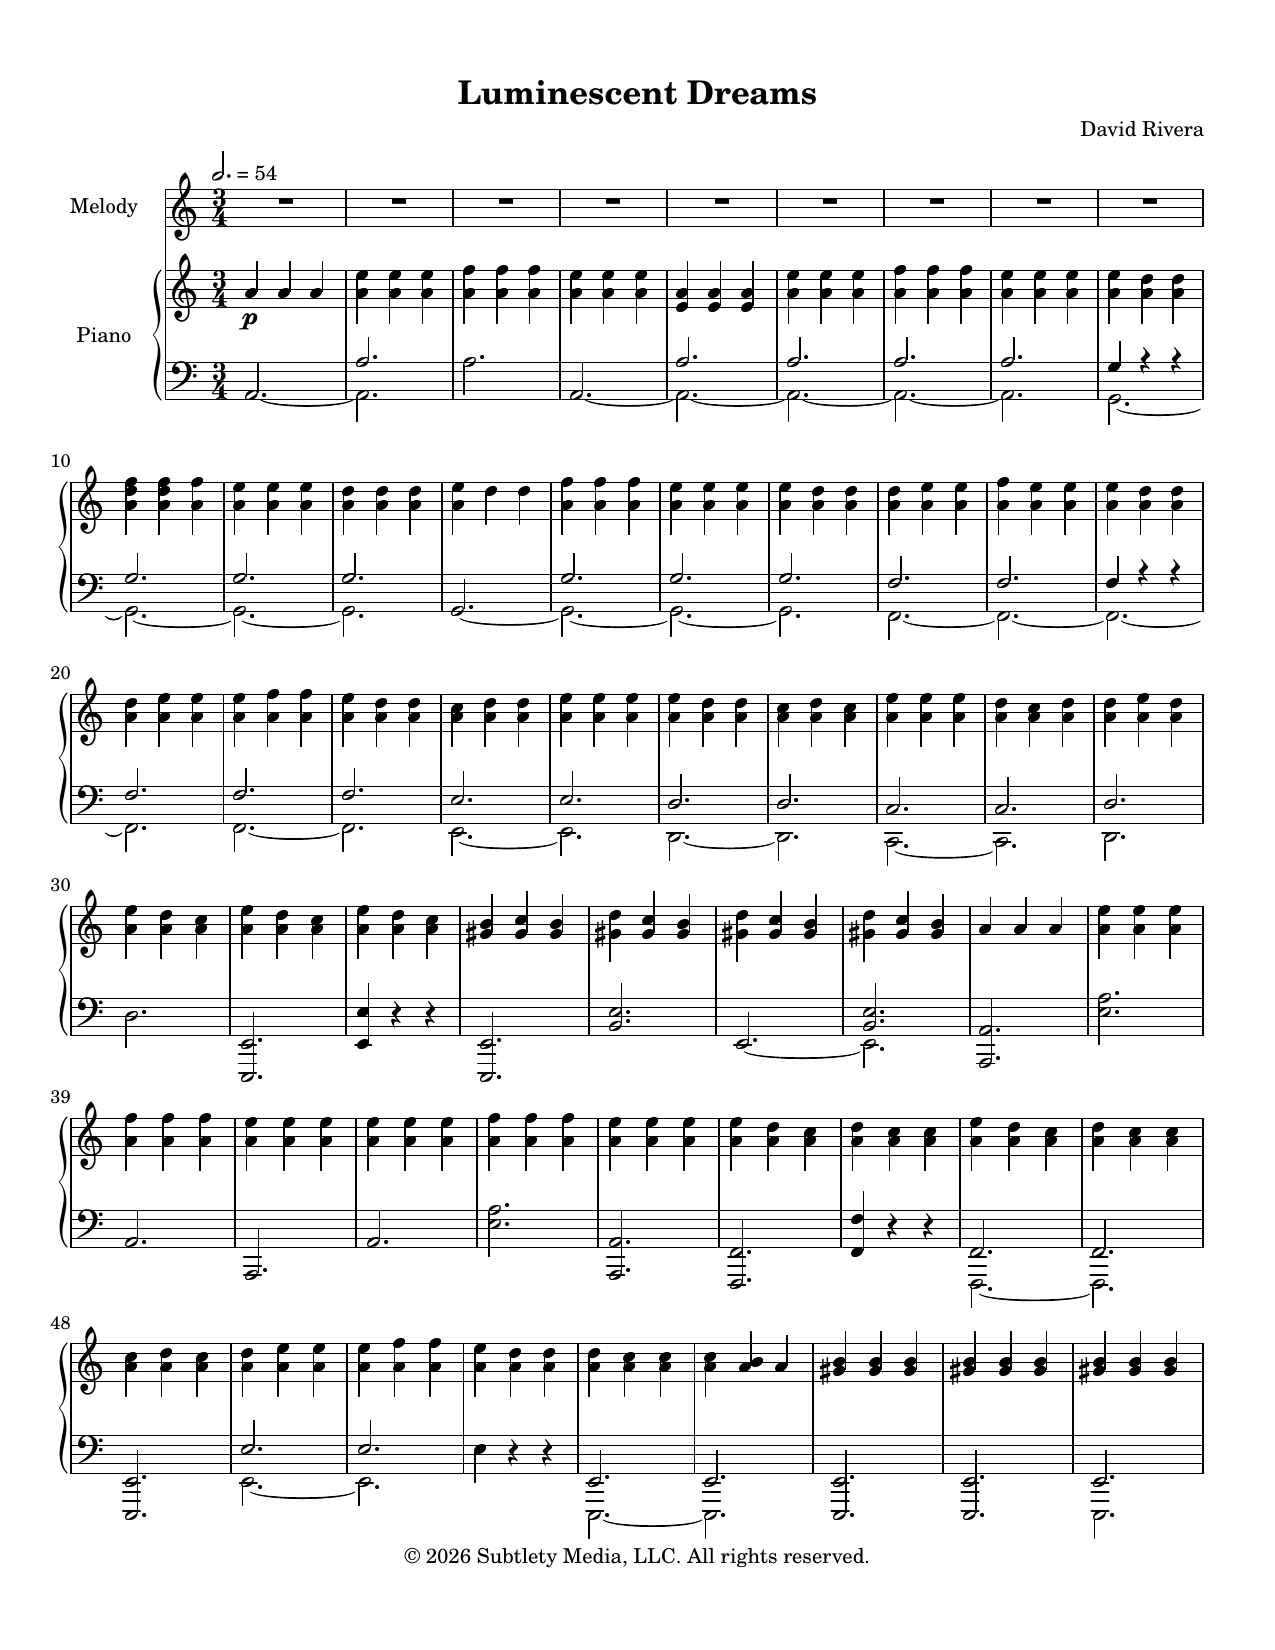
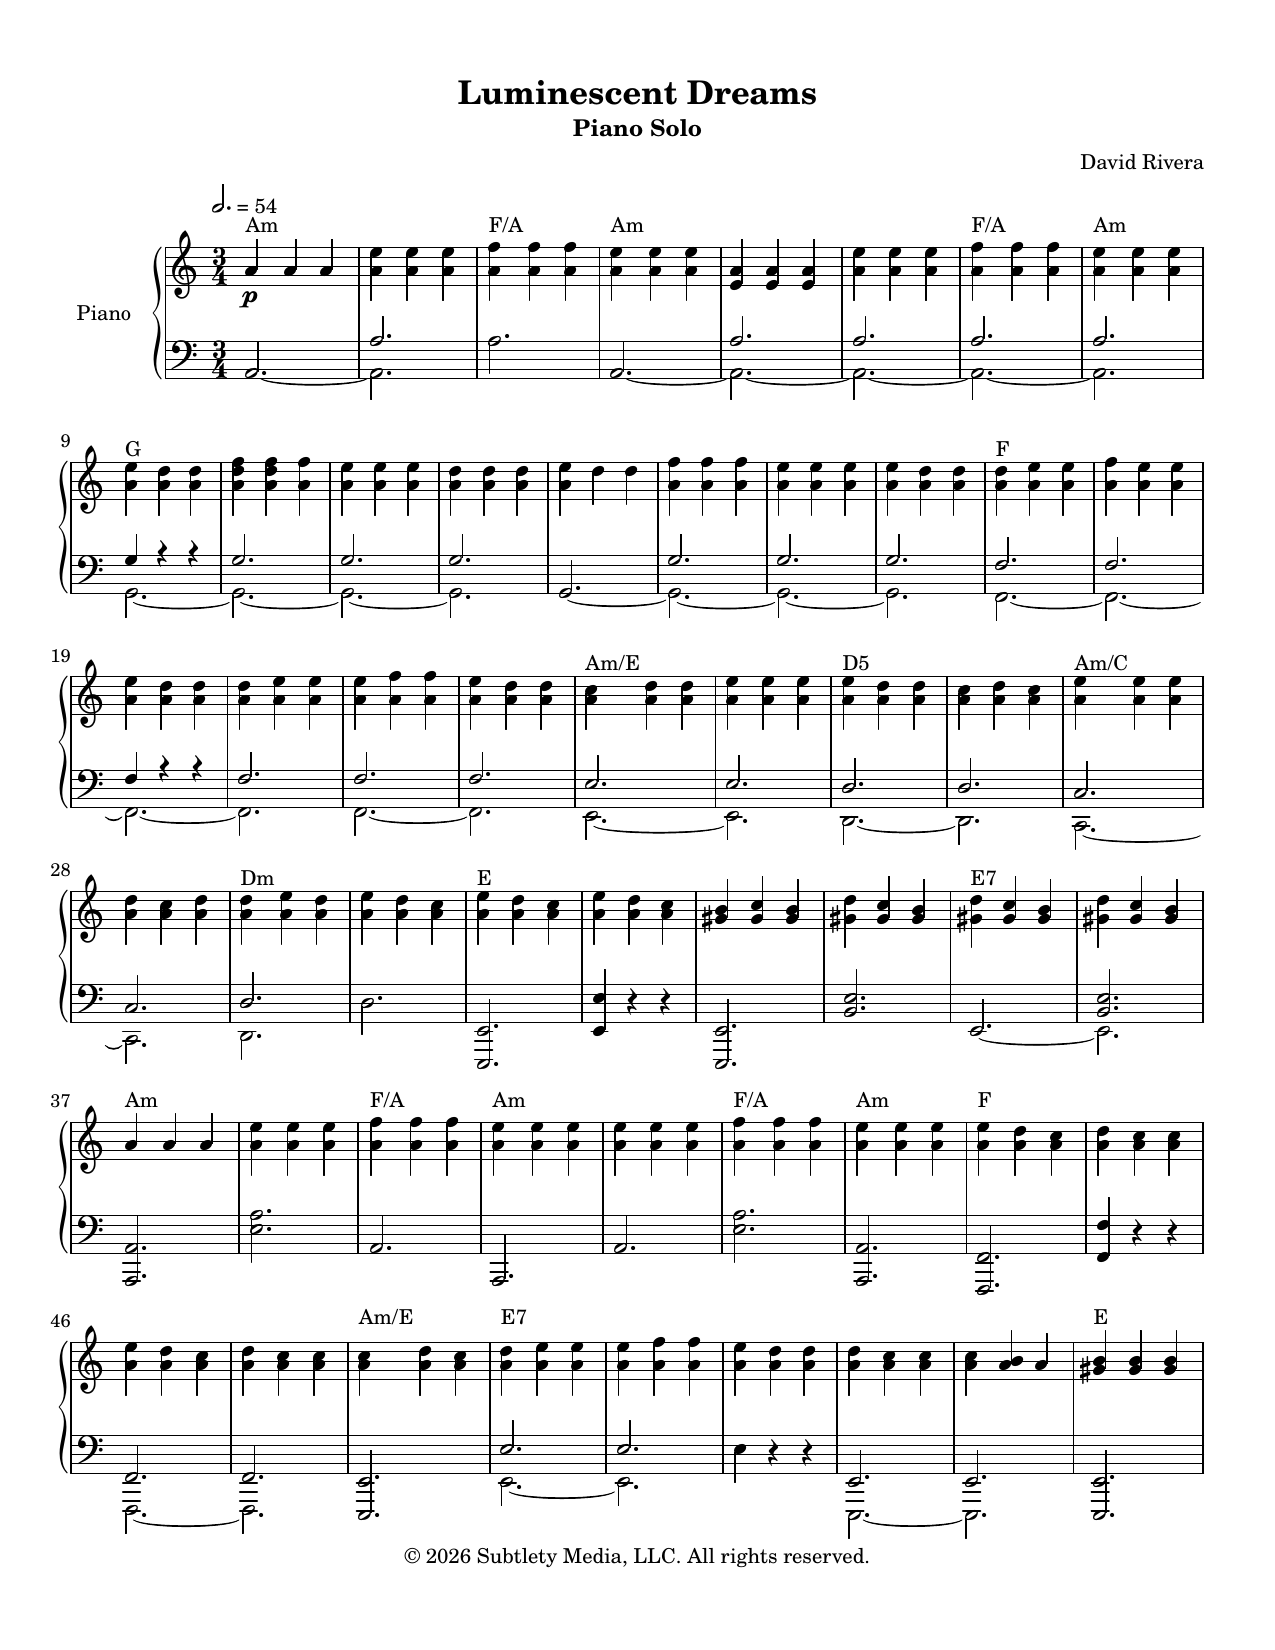
Luminescent preview: piano-only chord edition page 1 (#37)
* Fix Luminescent Dreams cover icon (use official single art)

* Luminescent preview: piano-only chord edition page 1; bust icon cache

diff --git a/scores/index.html b/scores/index.html
@@ -216,8 +216,8 @@ src="https://www.facebook.com/tr?id=257777058255900&ev=PageView&noscript=1"
       <p class="get"><a href="/assets/tapestry-of-whispers-chords.pdf?v=chords" download="Tapestry-of-Whispers-David-Rivera-chord-edition.pdf">Free PDF</a></p>
     </li>
     <li class="score">
-      <img src="/assets/luminescent-dreams-score-page-1.png" width="1275" height="1650" alt="First page of the Luminescent Dreams piano score" loading="lazy">
-      <div class="title"><span class="cover"><img src="/assets/covers/luminescent-dreams-96.jpg" width="40" height="40" alt="Luminescent Dreams single cover (out November 6, 2026)" loading="lazy"></span><h2>Luminescent Dreams</h2></div>
+      <img src="/assets/luminescent-dreams-score-page-1.png?v=2" width="1275" height="1650" alt="First page of the Luminescent Dreams piano score" loading="lazy">
+      <div class="title"><span class="cover"><img src="/assets/covers/luminescent-dreams-96.jpg?v=2" width="40" height="40" alt="Luminescent Dreams single cover (out November 6, 2026)" loading="lazy"></span><h2>Luminescent Dreams</h2></div>
       <p class="edition">Out Friday, November 6, 2026 · full score and chord edition on release day</p>
     </li>
   </ul>
